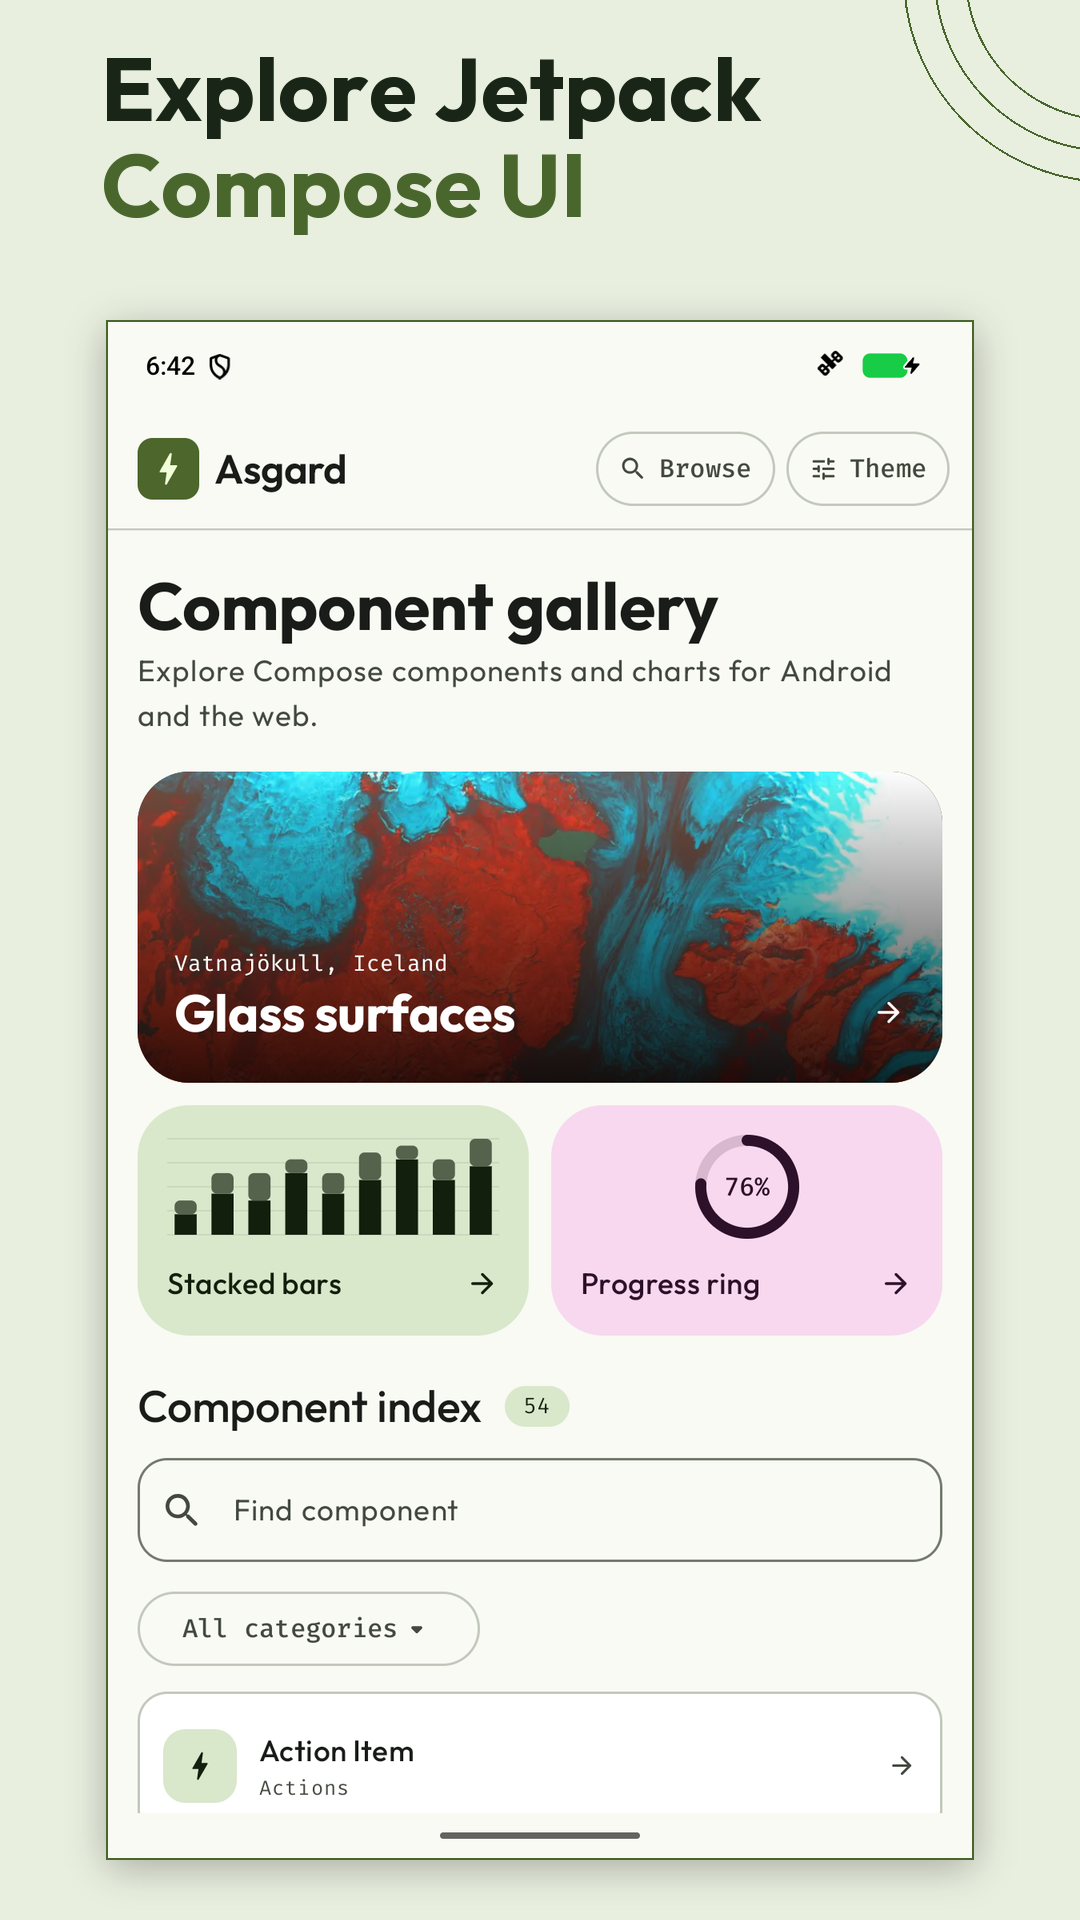
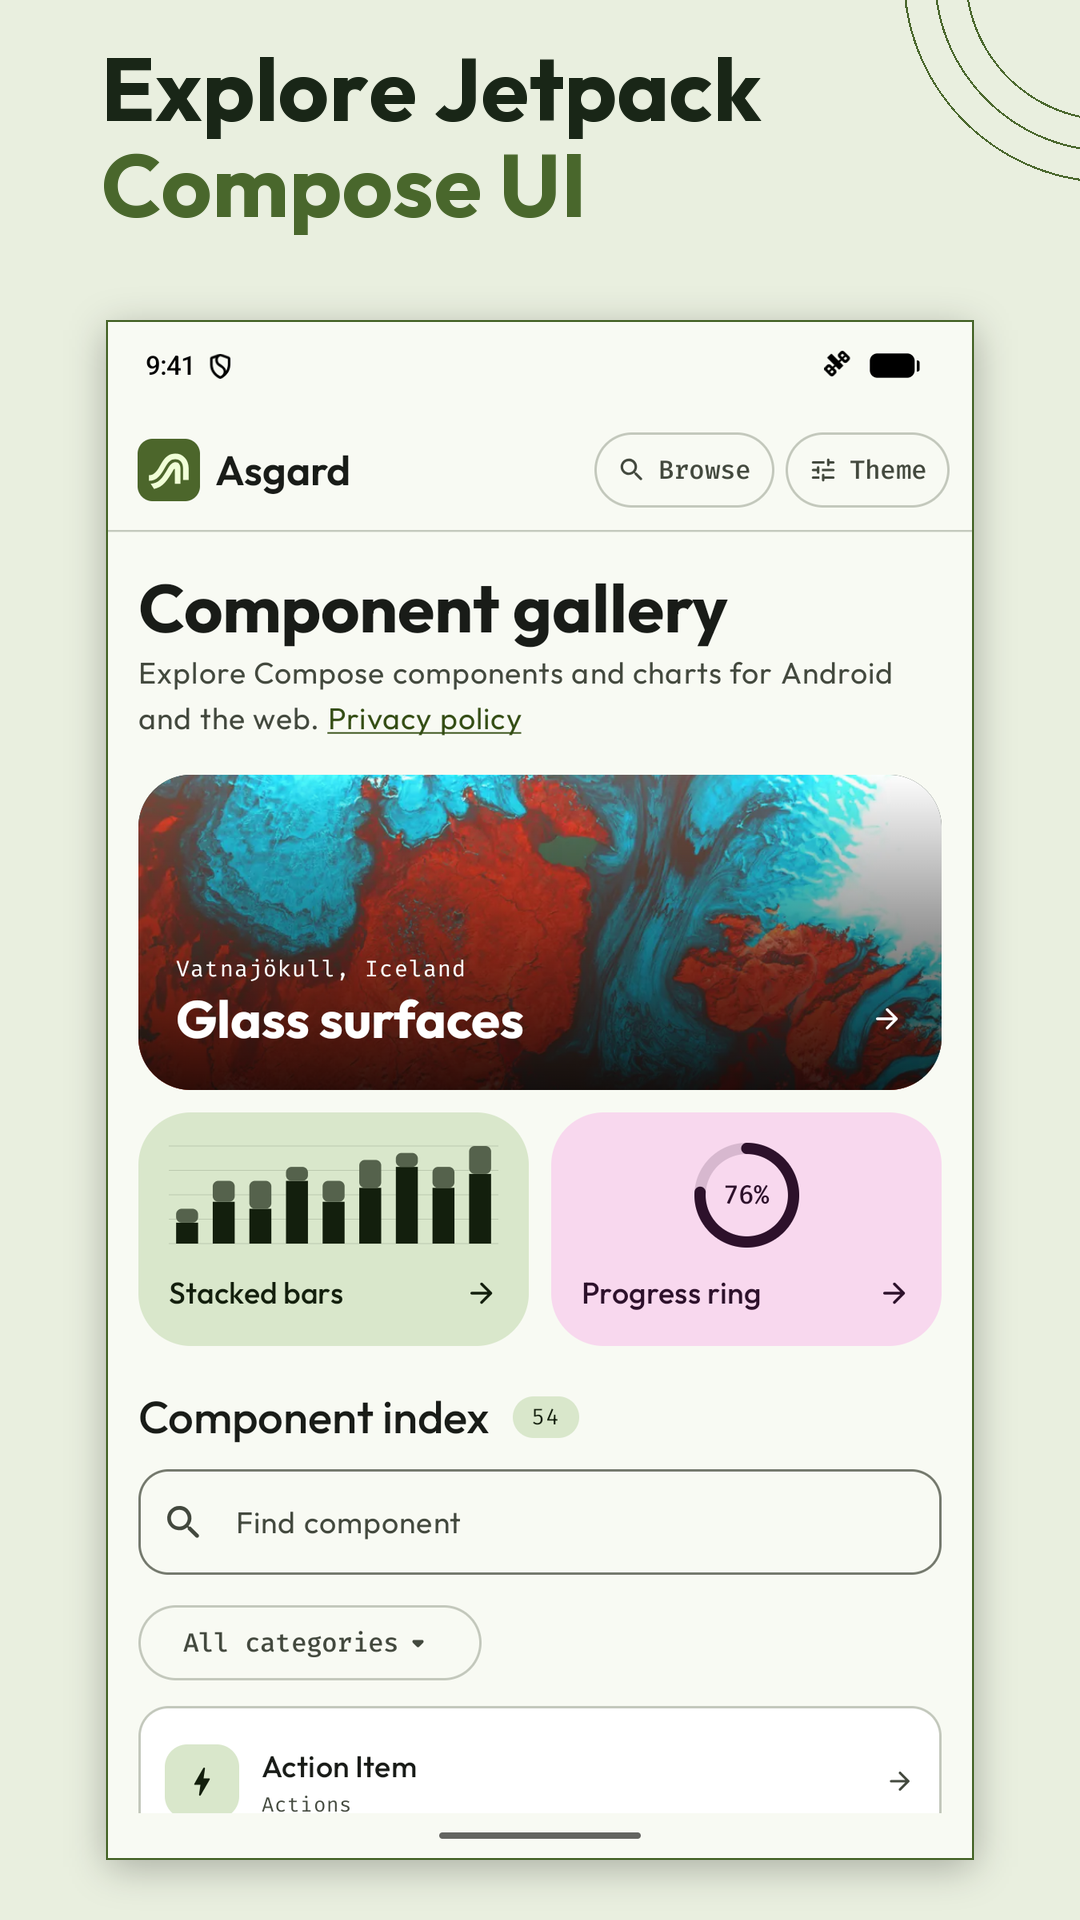
Use the Bifröst mark across Asgard Gallery and its Play listing

diff --git a/docs/glass-ui-report.html b/docs/glass-ui-report.html
@@ -4,6 +4,7 @@
   <meta charset="utf-8">
   <meta name="viewport" content="width=device-width, initial-scale=1">
   <meta name="theme-color" content="#f8f6f0">
+  <link rel="icon" type="image/svg+xml" href="bifrost.svg">
   <title>Opt-in glass for Asgard · Engineering report</title>
   <style>
     /* Embedded type and satellite imagery keep this report usable offline. */
@@ -26,7 +27,7 @@
     .wrap { width: min(1420px, 100%); margin: auto; padding-inline: clamp(20px,5.5vw,84px); }
     .mast { display: flex; align-items: center; gap: 18px; min-height: 74px; border-bottom: 1px solid var(--line); }
     .brand { display: flex; align-items: center; gap: 10px; font-size: 25px; font-weight: 600; letter-spacing: -.075em; }
-    .mark { width: 28px; height: 25px; background: var(--ink); clip-path: polygon(48% 0,100% 100%,72% 100%,47% 48%,33% 77%,51% 77%,62% 100%,0 100%); }
+    .mark { width: 28px; height: 28px; fill: currentColor; }
     .mast .label { padding-left: 18px; border-left: 1px solid var(--line); }
     .mast time { margin-left: auto; color: var(--muted); font-size: 13px; }
     .label { color: var(--muted); font-size: 11px; font-weight: 600; text-transform: uppercase; letter-spacing: .13em; }
@@ -168,7 +169,10 @@
   <a class="skip" href="#recommendation">Skip to report</a>
   <div class="wrap">
     <header class="mast">
-      <span class="brand"><span class="mark" aria-hidden="true"></span>Asgard</span>
+      <span class="brand"><svg class="mark" viewBox="0 0 100 100" aria-hidden="true">
+        <path d="M4 62 C18 62 24 50 32 36 C41 20 51 12 65 12 C83 12 96 26 96 46 L96 73 L83 73 L83 46 C83 33 76 25 65 25 C55 25 49 31 42 43 C32 61 23 75 4 75 Z" />
+        <path d="M8 82 C26 81 36 68 47 48 C54 36 59 32 66 32 C73 32 77 38 77 47 L77 82 L64 82 L64 49 C64 46 62 47 60 51 C47 74 36 90 16 94 Z" />
+      </svg>Asgard</span>
       <span class="label">Engineering report</span>
       <time datetime="2026-11-22">22 Nov 2026</time>
     </header>

diff --git a/demo/src/wasmJsMain/resources/index.html b/demo/src/wasmJsMain/resources/index.html
@@ -9,13 +9,14 @@
     <link rel="alternate" type="text/plain" title="Full Asgard reference" href="llms-full.txt">
     <link rel="privacy-policy" href="privacy/">
     <link rel="sitemap" type="application/xml" href="sitemap.xml">
+    <link rel="icon" type="image/svg+xml" href="bifrost.svg">
     <title>Asgard · Component gallery</title>
     <style>
         :root { color-scheme: light dark; font: 100%/1.5 system-ui, sans-serif; }
         html, body, #gallery { margin: 0; width: 100%; height: 100%; }
         body, #startup { background: #f8faf3; color: #1b211c; }
         #startup { position: fixed; inset: 0; z-index: 1; overflow: auto; padding: clamp(1.25rem, 6vw, 5rem); }
-        #startup h1 { margin: 0; }
+        #startup h1 { display: flex; align-items: center; gap: .4em; margin: 0; }
         #startup a { color: #275e3d; }
         #retry {
             min-height: 44px; padding: .5rem 1rem; margin-bottom: 1rem; border: 1px solid currentColor;
@@ -30,7 +31,7 @@
 </head>
 <body>
 <main id="startup">
-    <h1>Asgard Gallery</h1>
+    <h1><img src="bifrost.svg" width="36" height="36" alt="">Asgard Gallery</h1>
     <p id="startup-status" role="status">Enable JavaScript to use the interactive gallery.</p>
     <button id="retry" type="button" hidden>Retry loading</button>
     <nav aria-label="Gallery links">

diff --git a/demo/src/commonMain/kotlin/com/valhalla/asgard/demo/GalleryApp.kt b/demo/src/commonMain/kotlin/com/valhalla/asgard/demo/GalleryApp.kt
@@ -27,7 +27,10 @@ import androidx.compose.ui.text.style.TextOverflow
 import androidx.compose.ui.unit.Density
 import androidx.compose.ui.unit.LayoutDirection
 import androidx.compose.ui.unit.dp
+import asgard.demo.generated.resources.Res
+import asgard.demo.generated.resources.bifrost
 import com.valhalla.asgard.components.*
+import org.jetbrains.compose.resources.painterResource
 
 private val entriesById = asgardCatalog.associateBy { it.id }
 
@@ -141,7 +144,7 @@ private fun GalleryBar(onHome: () -> Unit, onBrowse: () -> Unit, onTheme: () -> 
                     .heightIn(min = 48.dp).padding(horizontal = 4.dp), verticalAlignment = Alignment.CenterVertically,
                     horizontalArrangement = Arrangement.spacedBy(8.dp)) {
                     Surface(color = colors.primaryContainer, contentColor = colors.onPrimaryContainer, shape = MaterialTheme.shapes.small) {
-                        Icon(Icons.Rounded.Bolt, null, Modifier.padding(5.dp).size(23.dp))
+                        Icon(painterResource(Res.drawable.bifrost), null, Modifier.padding(5.dp).size(23.dp))
                     }
                     Text("Asgard", style = MaterialTheme.typography.titleLarge, maxLines = 1, overflow = TextOverflow.Ellipsis)
                 }

diff --git a/demo/src/wasmJsMain/resources/privacy/index.html b/demo/src/wasmJsMain/resources/privacy/index.html
@@ -5,6 +5,7 @@
     <meta name="viewport" content="width=device-width, initial-scale=1">
     <meta name="description" content="How Asgard Gallery handles Android app data, local storage, the clipboard and visits to its public web gallery.">
     <link rel="canonical" href="https://asgard.trinadhthatakula.com/privacy/">
+    <link rel="icon" type="image/svg+xml" href="../bifrost.svg">
     <title>Asgard Gallery privacy policy</title>
     <style>
         :root { color-scheme: light dark; font: 100%/1.65 system-ui, sans-serif; }
@@ -15,6 +16,7 @@
         h2 { font-size: 1.4rem; margin: 2rem 0 .5rem; }
         p { margin: .65rem 0; }
         a { color: #275e3d; text-underline-offset: .15em; overflow-wrap: anywhere; }
+        nav a { display: inline-flex; align-items: center; gap: .5em; }
         code { overflow-wrap: anywhere; }
         @media (prefers-color-scheme: dark) {
             body { background: #141914; color: #e1e7dd; }
@@ -24,7 +26,7 @@
 </head>
 <body>
 <main>
-    <nav aria-label="Gallery"><a href="../">Back to Asgard Gallery</a></nav>
+    <nav aria-label="Gallery"><a href="../"><img src="../bifrost.svg" width="24" height="24" alt="">Back to Asgard Gallery</a></nav>
     ${policy}
 </main>
 </body>

diff --git a/README.md b/README.md
@@ -1,6 +1,6 @@
 <div align="center">
 
-# ⚡ Asgard
+# <img src="docs/bifrost.svg" width="32" height="32" alt=""> Asgard
 
 **A theme-agnostic Jetpack Compose component library, built on Expressive Material 3.**
 
